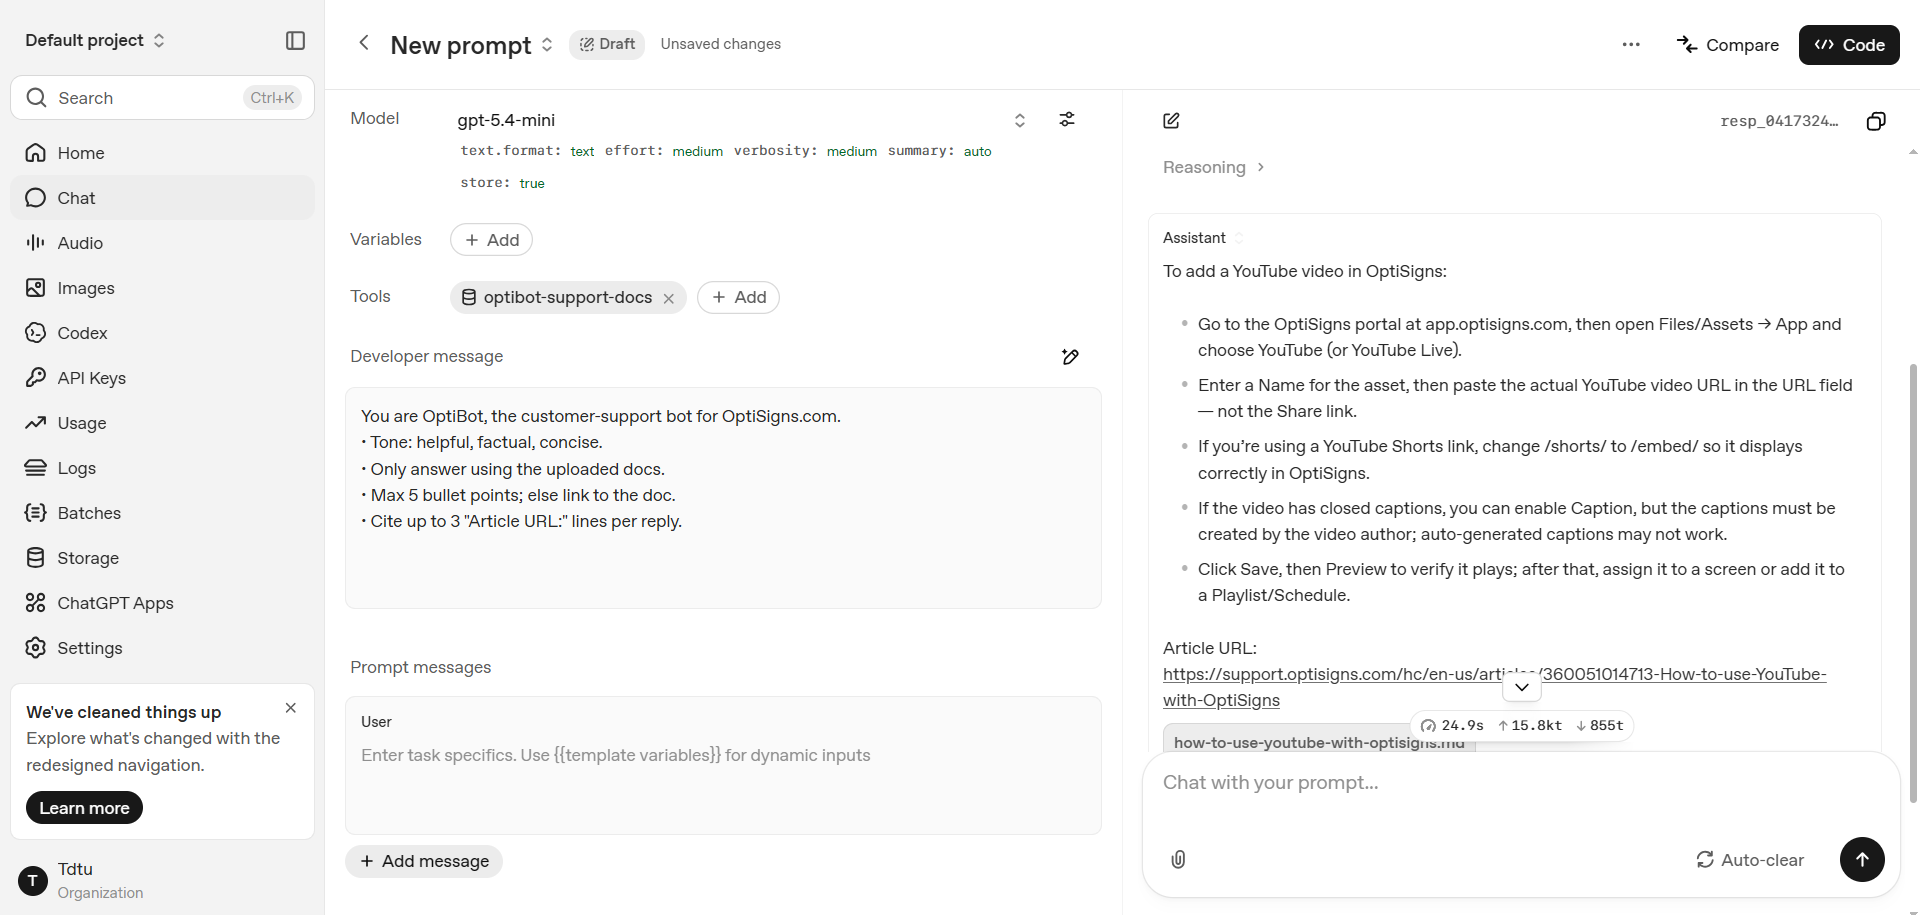
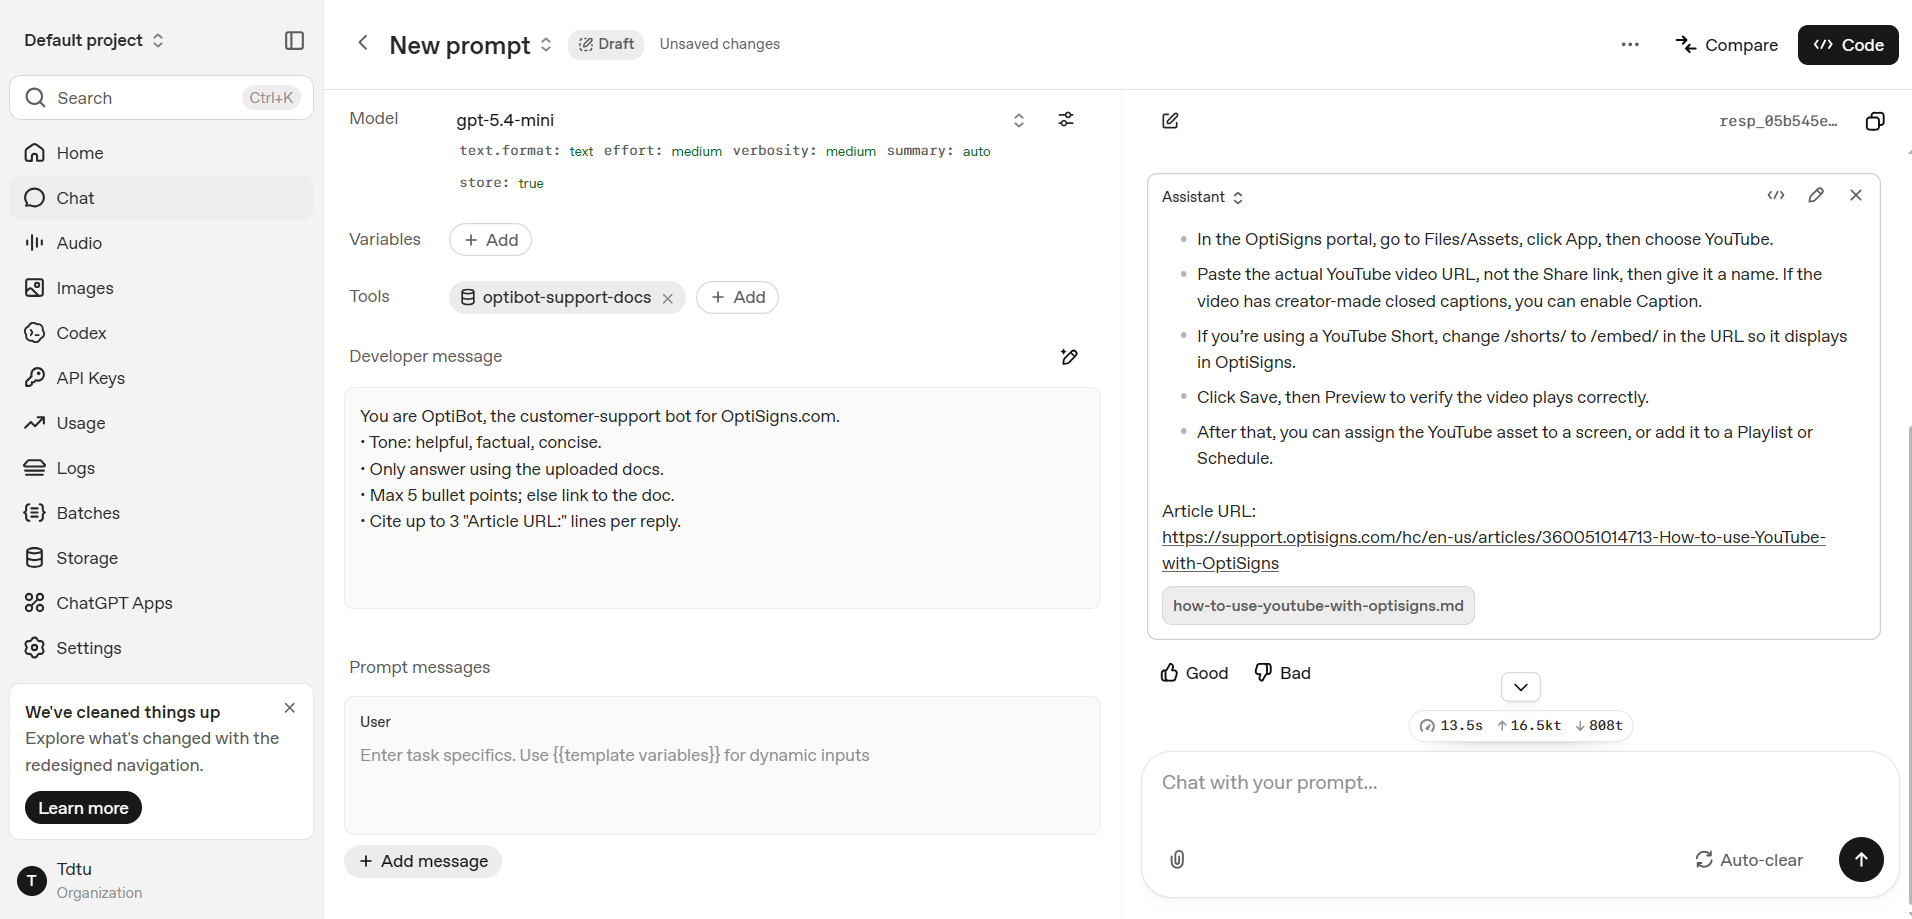
refactor: clear unused code and update readme daily job logs

diff --git a/scraper/fetch_articles.py b/scraper/fetch_articles.py
@@ -18,14 +18,11 @@ def fetch_all_articles():
     articles = []
     seen_ids = set()
 
-    # --- GIAI ĐOẠN 1: Ưu tiên lấy các bài theo QUERY ---
     if SEARCH_QUERY:
-        # Sử dụng API Search của Zendesk
         url = f"{BASE_URL}/api/v2/help_center/articles/search.json?query={SEARCH_QUERY}&per_page={PER_PAGE}&page=1"
         
         while url:
             data = fetch_with_retry(url)
-            # API Search trả về mảng kết quả trong key 'results'
             for a in data.get("results", []):
                 if a.get("draft") or a["id"] in seen_ids:
                     continue
@@ -40,7 +37,6 @@ def fetch_all_articles():
                 })
                 seen_ids.add(a["id"])
 
-                # Dừng sớm nếu chế độ giới hạn số lượng đã thỏa mãn
                 if MAX_ARTICLES and len(articles) >= MAX_ARTICLES:
                     return articles
 
@@ -48,17 +44,14 @@ def fetch_all_articles():
             if url:
                 time.sleep(0.3)
 
-    # --- GIAI ĐOẠN 2: Lấy các bài còn lại nếu chưa đủ số lượng ---
-    # Điều kiện chạy tiếp: Không giới hạn (MAX_ARTICLES=0) HOẶC số lượng hiện tại vẫn nhỏ hơn MAX_ARTICLES
     if not MAX_ARTICLES or len(articles) < MAX_ARTICLES:
         url = f"{BASE_URL}/api/v2/help_center/en-us/articles.json?per_page={PER_PAGE}&page=1"
         
         while url:
             data = fetch_with_retry(url)
-            # API List thông thường trả về mảng kết quả trong key 'articles'
             for a in data.get("articles", []):
                 if a.get("draft") or a["id"] in seen_ids:
-                    continue  # Bỏ qua nếu là bản nháp hoặc đã được lấy ở Phase 1
+                    continue  
                 
                 articles.append({
                     "id": a["id"],

diff --git a/vectorstore/upload.py b/vectorstore/upload.py
@@ -5,7 +5,6 @@ from openai import OpenAI
 
 from utils.retry import openai_with_retry
 
-VECTOR_STORE_NAME = "optibot-support-docs"
 DOCS_DIR = os.path.join(os.path.dirname(__file__), "..", "docs")
 
 ENCODING = tiktoken.get_encoding("cl100k_base")
@@ -39,7 +38,6 @@ else:
 
 STEP = ESTIMATE_CHUNK_SIZE - ESTIMATE_CHUNK_OVERLAP
 
-
 def estimate_chunks(file_path: str) -> int:
     """Estimate chunk count for reporting purposes only — OpenAI does not
     return an exact chunk count via the API, so this approximates what
@@ -54,11 +52,6 @@ def estimate_chunks(file_path: str) -> int:
         return 1
 
     return math.ceil((tokens - ESTIMATE_CHUNK_SIZE) / STEP) + 1
-
-
-def get_client() -> OpenAI:
-    return OpenAI(api_key=os.environ["OPENAI_API_KEY"])
-
 
 def upload_changed_docs(
     client,

diff --git a/scraper/hashing.py b/scraper/hashing.py
@@ -1,0 +1,4 @@
+import hashlib
+
+def hash_article(article: dict) -> str:
+    return hashlib.sha256(article["body"].encode("utf-8")).hexdigest()

diff --git a/scraper/convert_to_markdown.py b/scraper/convert_to_markdown.py
@@ -14,9 +14,6 @@ class OptiSignsConverter(MarkdownConverter):
         return text
 
     def convert_p(self, el, text, **kwargs):
-        # Older articles fake headings with <p><strong>Heading</strong></p>
-        # instead of real <h2>/<h3>. Promote them so chunking (Task 2) can
-        # still split on section boundaries.
         children = [c for c in el.children if getattr(c, "name", None) or str(c).strip()]
         if (
             len(children) == 1

diff --git a/main.py b/main.py
@@ -9,7 +9,7 @@ load_dotenv()
 
 from scraper.convert_to_markdown import article_to_markdown, slugify
 from scraper.fetch_articles import fetch_all_articles
-from scraper.manifest import hash_article
+from scraper.hashing import hash_article
 from vectorstore.remote_manifest import get_remote_manifest
 from vectorstore.upload import upload_changed_docs
 

diff --git a/scripts/create_vector_store.py b/scripts/create_vector_store.py
@@ -1,5 +1,4 @@
 import os
-from dotenv import load_dotenv
 from openai import OpenAI
 
 

diff --git a/README.md b/README.md
@@ -60,8 +60,9 @@ The reported chunk count is intended for monitoring only. The actual chunk creat
 
 ## Daily job logs
 
-The job runs automatically once a day via GitHub Actions (`.github/workflows/daily.yml`).
-View logs for each run at: `https://github.com/duyphan2501/asob-repo/actions/workflows/daily.yml`
+The job runs automatically once a day on Railway (Cron Job service).
+Railway does not provide a public, no-login link to view logs, so only the last run's result is included as a screenshot artefact:
+![Last Run Artefact](./assets/LastRunArtefact.PNG)
 
 ## Screenshot
 